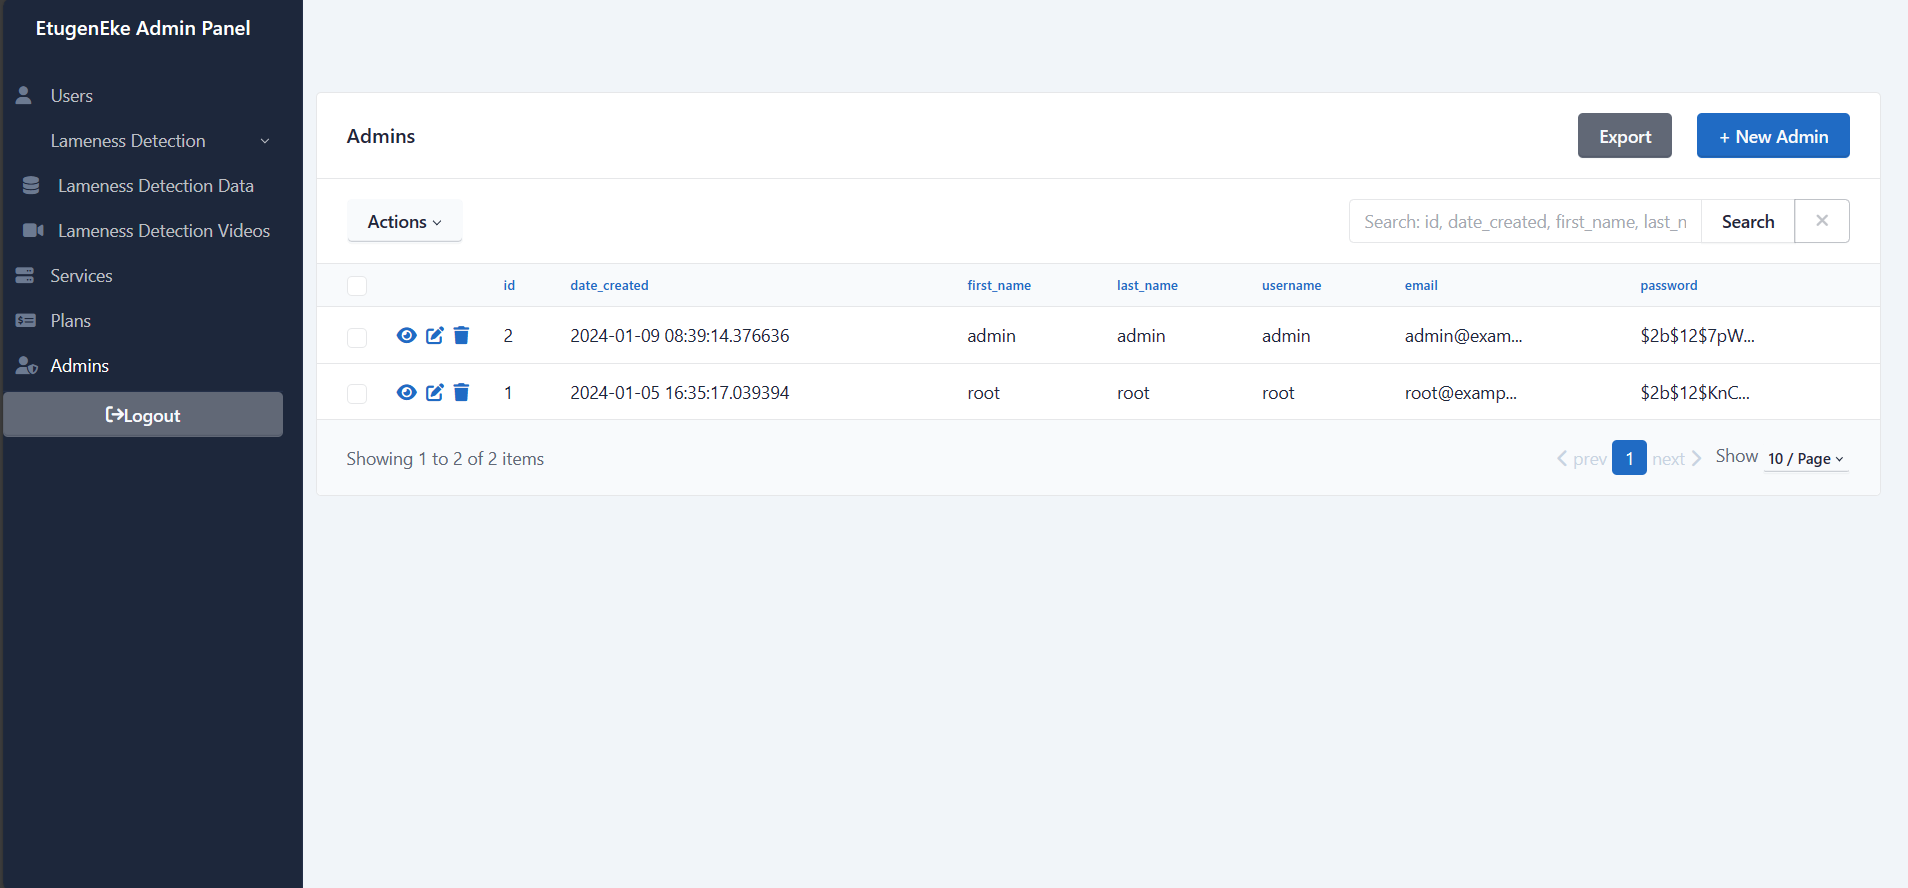
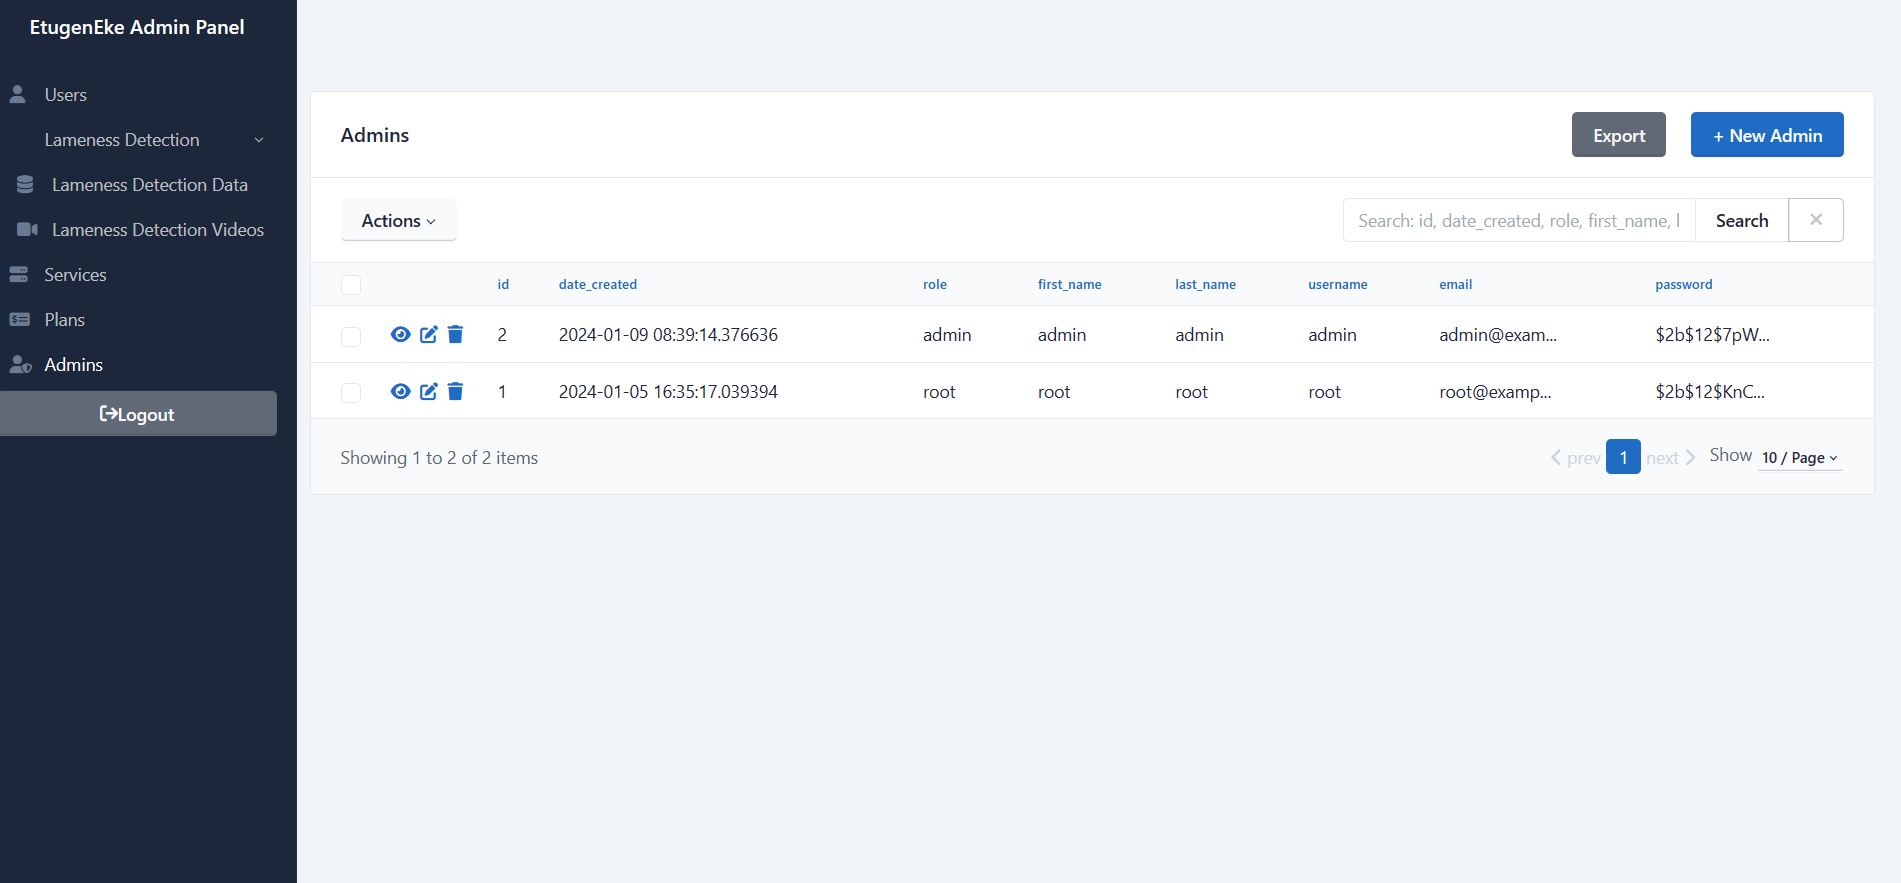
Minor update to Admin Panel and README

diff --git a/EtugenEke/assets/routes/admin/admin_panel.py b/EtugenEke/assets/routes/admin/admin_panel.py
@@ -89,10 +89,10 @@ class Admins(ModelView, model=Admins):
 
     name = "Admin"
     icon = "fas fa-user-shield"
-    column_list = ["id", "date_created", "first_name", "last_name", "username", "email", "password"]
+    column_list = ["id", "date_created", "role", "first_name", "last_name", "username", "email", "password"]
     column_default_sort = ("id", True)
-    column_sortable_list = ["id", "date_created", "first_name", "last_name", "username", "email", "password"]
-    column_searchable_list = ["id", "date_created", "first_name", "last_name", "username", "email", "password"]
+    column_sortable_list = ["id", "date_created", "role", "first_name", "last_name", "username", "email", "password"]
+    column_searchable_list = ["id", "date_created", "role", "first_name", "last_name", "username", "email", "password"]
     column_formatters = {Admins.first_name: lambda m, a: m.first_name[:10] + "..." if len(m.first_name) > 10 else m.first_name, 
                          Admins.last_name: lambda m, a: m.last_name[:10] + "..." if len(m.last_name) > 10 else m.last_name,
                          Admins.username: lambda m, a: m.username[:10] + "..." if len(m.username) > 10 else m.username,
